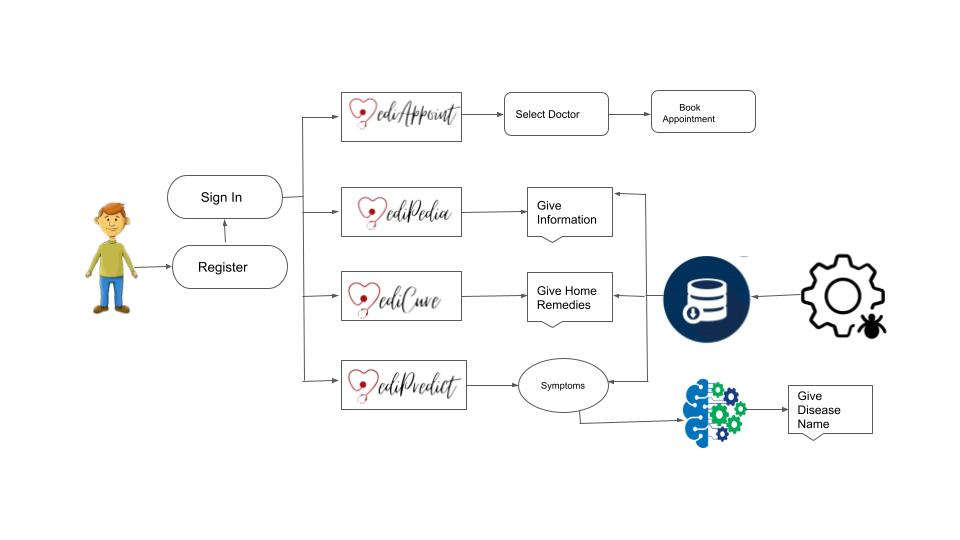
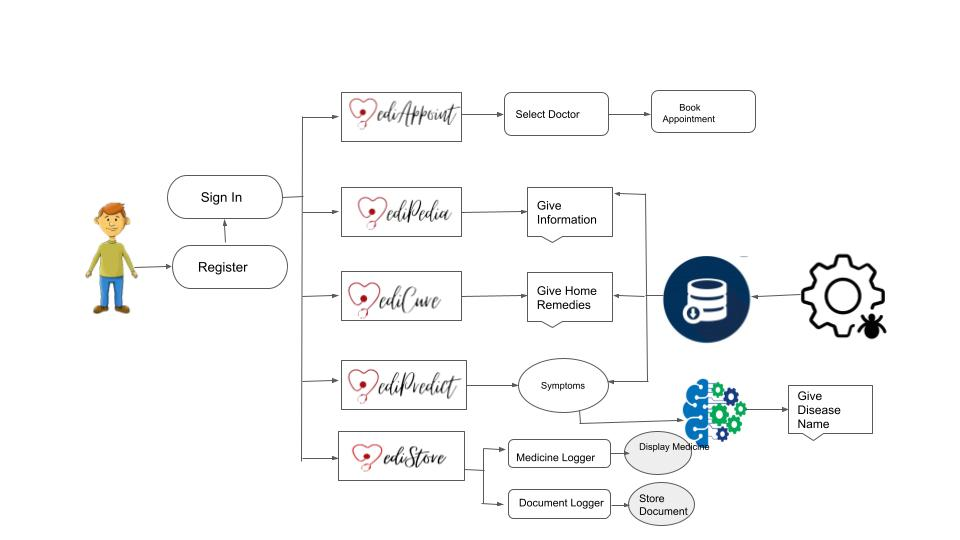
updated readme

Changed region(s): [[0.5, 0.8, 0.75, 0.9778], [0.3125, 0.4741, 0.3438, 0.6815], [0.3438, 0.8, 0.4688, 0.8889]]

diff --git a/README.md b/README.md
@@ -34,33 +34,55 @@ MediPoint is an online healthcare platform which is designed for the greater goo
 ![MediAppoint-Logo](./Logo/MediAppoint.png) -->
 ![MediAppoint-Diagram](./Diagrams/MediAppoint.png)<br>
 MediAppoint is the component of our application that deals with scheduling appointments of patients with their Doctors. We focus on saving our customers time and avoid the long waiting period. There is a transparency in the time-slot bookings, customer can check for the available slots and book an appointment as per his/her convenience. 
+**Features** : <br/>
+1. DB with list of Doctors 
+2. Transparency of available slots
+3. Book  slot according to your convenience
+4. Confirmation send 
+5. Avoid queue waiting period
 
 #### MediPedia
 
 <!-- ![MediPedia-Logo](./Logo/MediPedia.png) -->
-![MediPedia-Diagram](./Diagrams/MediPedia.jpg)
+![MediPedia-Diagram](./Diagrams/MediPedia.png)
 MediPedia is the encyclopedia of diseases at your fingertip. Customers can select a disease and get all information like the symptoms, causes, precautions etc. 
+**Features** : <br/>
+1. Create Database with Disease information
+2. Web Scraping of disease websites
+3. Select disease, get information
+4. Encyclopedia of diseases at your fingertip
 
 #### MediCure
 
 <!-- ![MediCure-Logo](./Logo/MediCure.png) -->
-![MediCure-Diagram](./Diagrams/MediCure.jpg)
+![MediCure-Diagram](./Diagrams/MediCure.png)
 We live in a society where our Grandma’s Nuskha is the first step towards cure after every trivial infection. This component of MediPoint is a solution for the customer’s plight as it provides information about a First Aid treatment for an infection without having to visit the doctor in person. Medicure focuses on providing a home remedy for the selected disease/infection. 
+**Features** : <br/>
+1. Home remedies for diseases stored in database
+2. Web Scraping from diseases website
+3. Providing users with a First Aid treatment for the selected disease
 
 #### MediPredict
 
 <!-- ![MediPredict-Logo](./Logo/MediPredict.png) -->
 ![MediPredict-Diagram](./Diagrams/MediPredict.jpg)
 MediPredict is the component of MediPoint that predicts the disease after getting the symptoms of the customer as input. This component can help the customer to know what his/her symptoms signify and avoid jumping to impromptu conclusion.
+**Features** : <br/>
+1. Predict the disease by taking symptoms input from user
+2. ML model using Decision Trees
+3. Database source - Kaggle
 
 #### MediStore
 <!-- 
 ![MediStore-Logo](./Logo/MediStore.png) -->
 ![MediStore-Diagram](./Diagrams/MediStore.jpg)
-
 MediStore has two parts
 Document Logger - Stores prescription and important documents of the user 
 Medicine Logger - Logs medicines dose.
+**Features** : <br/>
+1. Storage destination for all the health care documents
+2. Medicine Logger 
+3. Documents  Logger
 
 
 ### Architecture
@@ -71,11 +93,145 @@ Medicine Logger - Logs medicines dose.
 
 #### Use case
 
-![UseCase](./Diagrams/UseCase.png)
+![UseCase](./Diagrams/UseCase.jpg)
 
 ### Tech Stack
 
 ![TechStack](./Diagrams/TechStack.png)
+
+### Directory Structure
+```
+IngenuimHackathon
+|-- Diagrams
+|   |-- MediAppoint.png
+|   |-- MediCure.jpg
+|   |-- MediPedia.jpg
+|   |-- MediPredict.jpg
+|   |-- MediStore.jpg
+|   |-- SystemDesign.jpg
+|   |-- TechStack.png
+|   `-- UseCase.png
+|-- Logo
+|   |-- MediAppoint.png
+|   |-- MediCure.png
+|   |-- MediPedia.png
+|   |-- MediPoint.png
+|   |-- MediPredict.png
+|   `-- MediStore.png
+|-- MediPredict
+|   |-- MediPredict.json
+|   |-- MeditPredict.csv
+|   |-- README.md
+|   |-- config.yaml
+|   |-- dataset
+|   |   |-- my_test.csv
+|   |   |-- test_data.csv
+|   |   `-- training_data.csv
+|   |-- environment.yml
+|   |-- main.py
+|   `-- saved_model
+|       `-- decision_tree.joblib
+|-- README.md
+|-- medipoint-client
+|   |-- App.js
+|   |-- README.md
+|   |-- app.json
+|   |-- assets
+|   |   |-- Home.png
+|   |   |-- Logo
+|   |   |   `-- MediPoint.png
+|   |   |-- Logout.jpg
+|   |   |-- MediAppoint.png
+|   |   |-- MediCure.jpg
+|   |   |-- MediPedia.jpg
+|   |   |-- MediPredict.png
+|   |   |-- MediStore.png
+|   |   |-- Profile.jpeg
+|   |   |-- adaptive-icon.png
+|   |   |-- favicon.png
+|   |   |-- icon.png
+|   |   |-- load.png
+|   |   `-- splash.png
+|   |-- babel.config.js
+|   |-- components
+|   |   |-- Auth
+|   |   |   |-- Login.js
+|   |   |   |-- Logout.js
+|   |   |   `-- Register.js
+|   |   |-- DrawerContainer.js
+|   |   |-- HomeComponent.js
+|   |   |-- MainComponent.js
+|   |   |-- MediAppoint
+|   |   |   |-- DoctorDetails.js
+|   |   |   |-- TimeSlotBooking.js
+|   |   |   `-- img
+|   |   |       |-- dr_Maya.png
+|   |   |       |-- dr_aniruddha.png
+|   |   |       |-- dr_apurva.png
+|   |   |       |-- dr_david.png
+|   |   |       `-- dr_riddhima.png
+|   |   |-- MediCure
+|   |   |   |-- CureInfo.js
+|   |   |   `-- MediCure.js
+|   |   |-- MediPedia
+|   |   |   |-- DiseasesInfo.js
+|   |   |   `-- MediPedia.js
+|   |   |-- MediPredict
+|   |   |   `-- MediPredict.js
+|   |   |-- MediStore
+|   |   |   |-- DocumentsLogger.js
+|   |   |   |-- MediStore.js
+|   |   |   `-- MedicineLogger.js
+|   |   `-- MenuButton.js
+|   |-- config.js
+|   |-- package-lock.json
+|   |-- package.json
+|   |-- screens
+|   |   |-- CheckAppointments.js
+|   |   |-- Loading.js
+|   |   |-- ProfilePage.js
+|   |   `-- WelcomeScreen.js
+|   `-- yarn.lock
+|-- medipoint-server
+|   |-- app.js
+|   |-- authenticate.js
+|   |-- bin
+|   |   `-- www
+|   |-- config.js
+|   |-- feature_correlation.png
+|   |-- models
+|   |   |-- cure.js
+|   |   |-- disease.js
+|   |   |-- doctor.js
+|   |   |-- symptom.js
+|   |   `-- user.js
+|   |-- package-lock.json
+|   |-- package.json
+|   |-- public
+|   |   |-- images
+|   |   |-- javascripts
+|   |   `-- stylesheets
+|   |       `-- style.css
+|   |-- routes
+|   |   |-- cors.js
+|   |   |-- cures.js
+|   |   |-- diseases.js
+|   |   |-- doctors.js
+|   |   |-- index.js
+|   |   |-- predict.js
+|   |   |-- symptoms.js
+|   |   `-- users.js
+|   `-- views
+|       |-- error.jade
+|       |-- index.jade
+|       `-- layout.jade
+`-- scraper
+    |-- MediCure.json
+    |-- MediCureScaper.py
+    |-- MediPedia.json
+    `-- MediPediaScraper.py
+```
+
 
 ### Installation Guide
 
@@ -103,7 +259,7 @@ Medicine Logger - Logs medicines dose.
 
 ### Impact on Stackeholders
 
-1. **Saves Time** - Visting hospital for booking appointment is very time consuming and can be hectic now-a-days. So MediPoint is an automated system saves valuable working time of both user and the medical staff.
+1. **Saves Time** - Visting hospital for booking appointment is very time consuming and can be hectic now-a-days. MediAppoint can be your saviour.
 2. **Book anything from anywhere** - Users are not limited to any specific working times of hospital for booking,they can book the appointment round the clock at anytime from anywhere.
 3. **Save Resources** - MediAPoint is an automated appointment system as it removes the expensive of going hospital for manual booking
 4. **Minimize communication gap between Doctors and Patients** - Patients can themselves get the info about the diseases using MediPoint app.
@@ -119,7 +275,8 @@ Medicine Logger - Logs medicines dose.
 ### Future Scope
 
 1. Integrating Messaging and Video call services for Doctors and patients interaction.
-2. MediBot - Trained Bit which can help users to solve healthcare problems more efficiently.
+2. MediBot - Trained Bot which can help users to solve healthcare problems more efficiently.
 3. Integrating Payment gateways for paying medical charges 
 4. MediCare - online medicine/healthcare related products selling app
-
+5. MediHabit - Schedule the healthly daily habits ike workout, eating vegetables, ect
+6. MediDaily - Health news Channel
